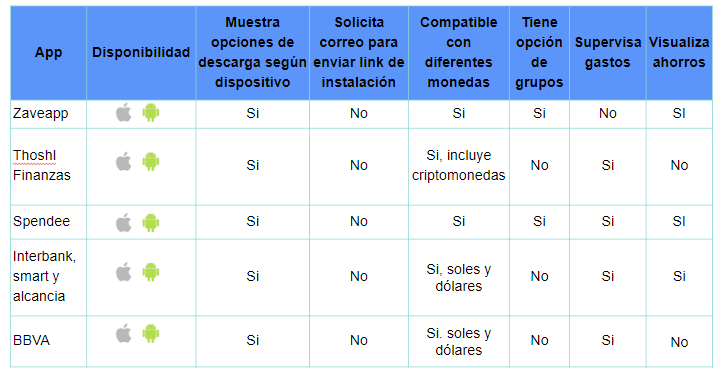
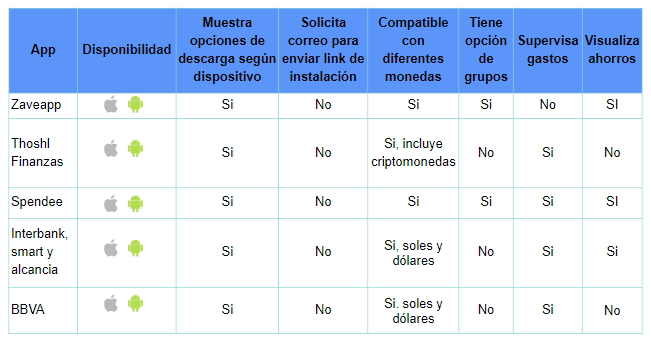
solo cambiando detalles de imagen y letra

diff --git a/README.md b/README.md
@@ -6,7 +6,7 @@
 * Identificar pains tanto de la app.
 * Realizar una propuesta de rediseño de app con un flujo mucho más amigable para el usuario
 
-## Problemas encontrados a nivel de negocio 
+### Problemas encontrados a nivel de negocio 
 Luego de realizar un testeo 6 usuarios del actual prototipo encontramos los siguientes problemas:
 
 1. En el landing page no visualiza la disponibilidad para el dispositivo (actualmente solo para IOS).
